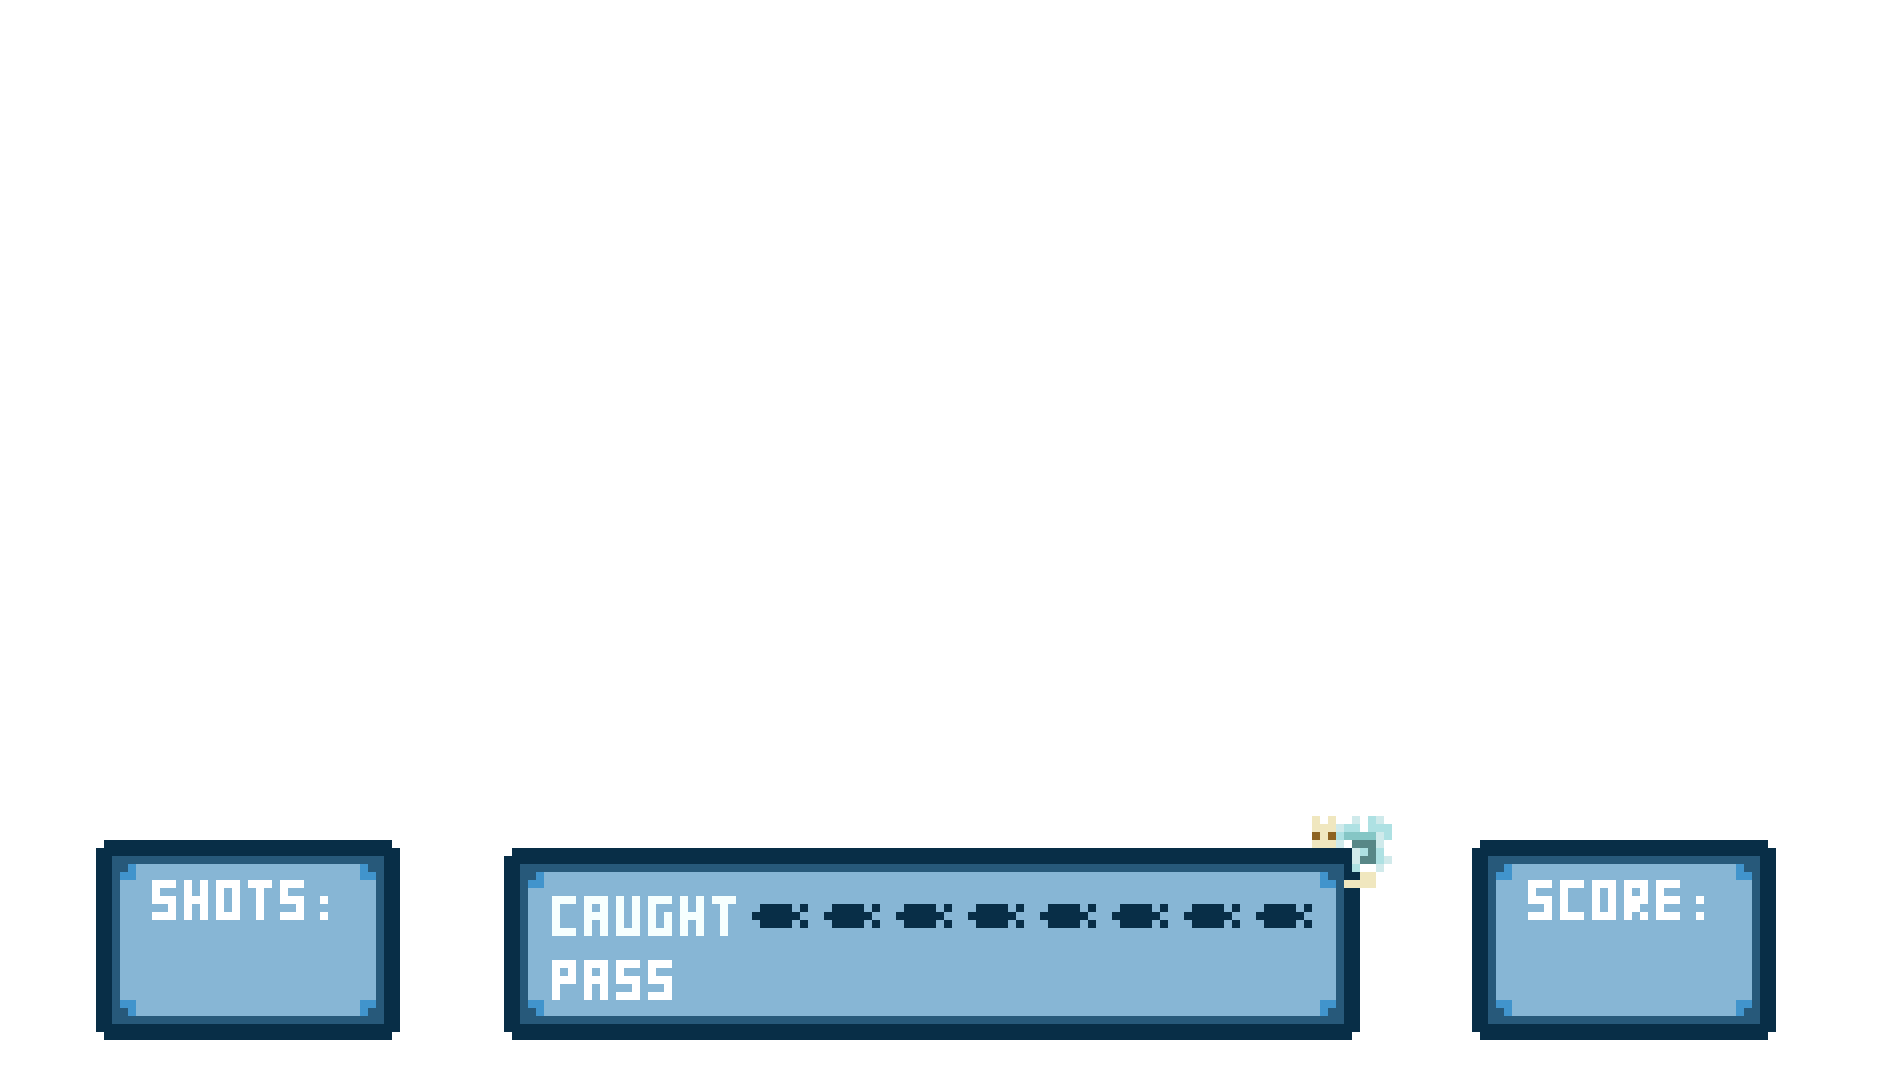
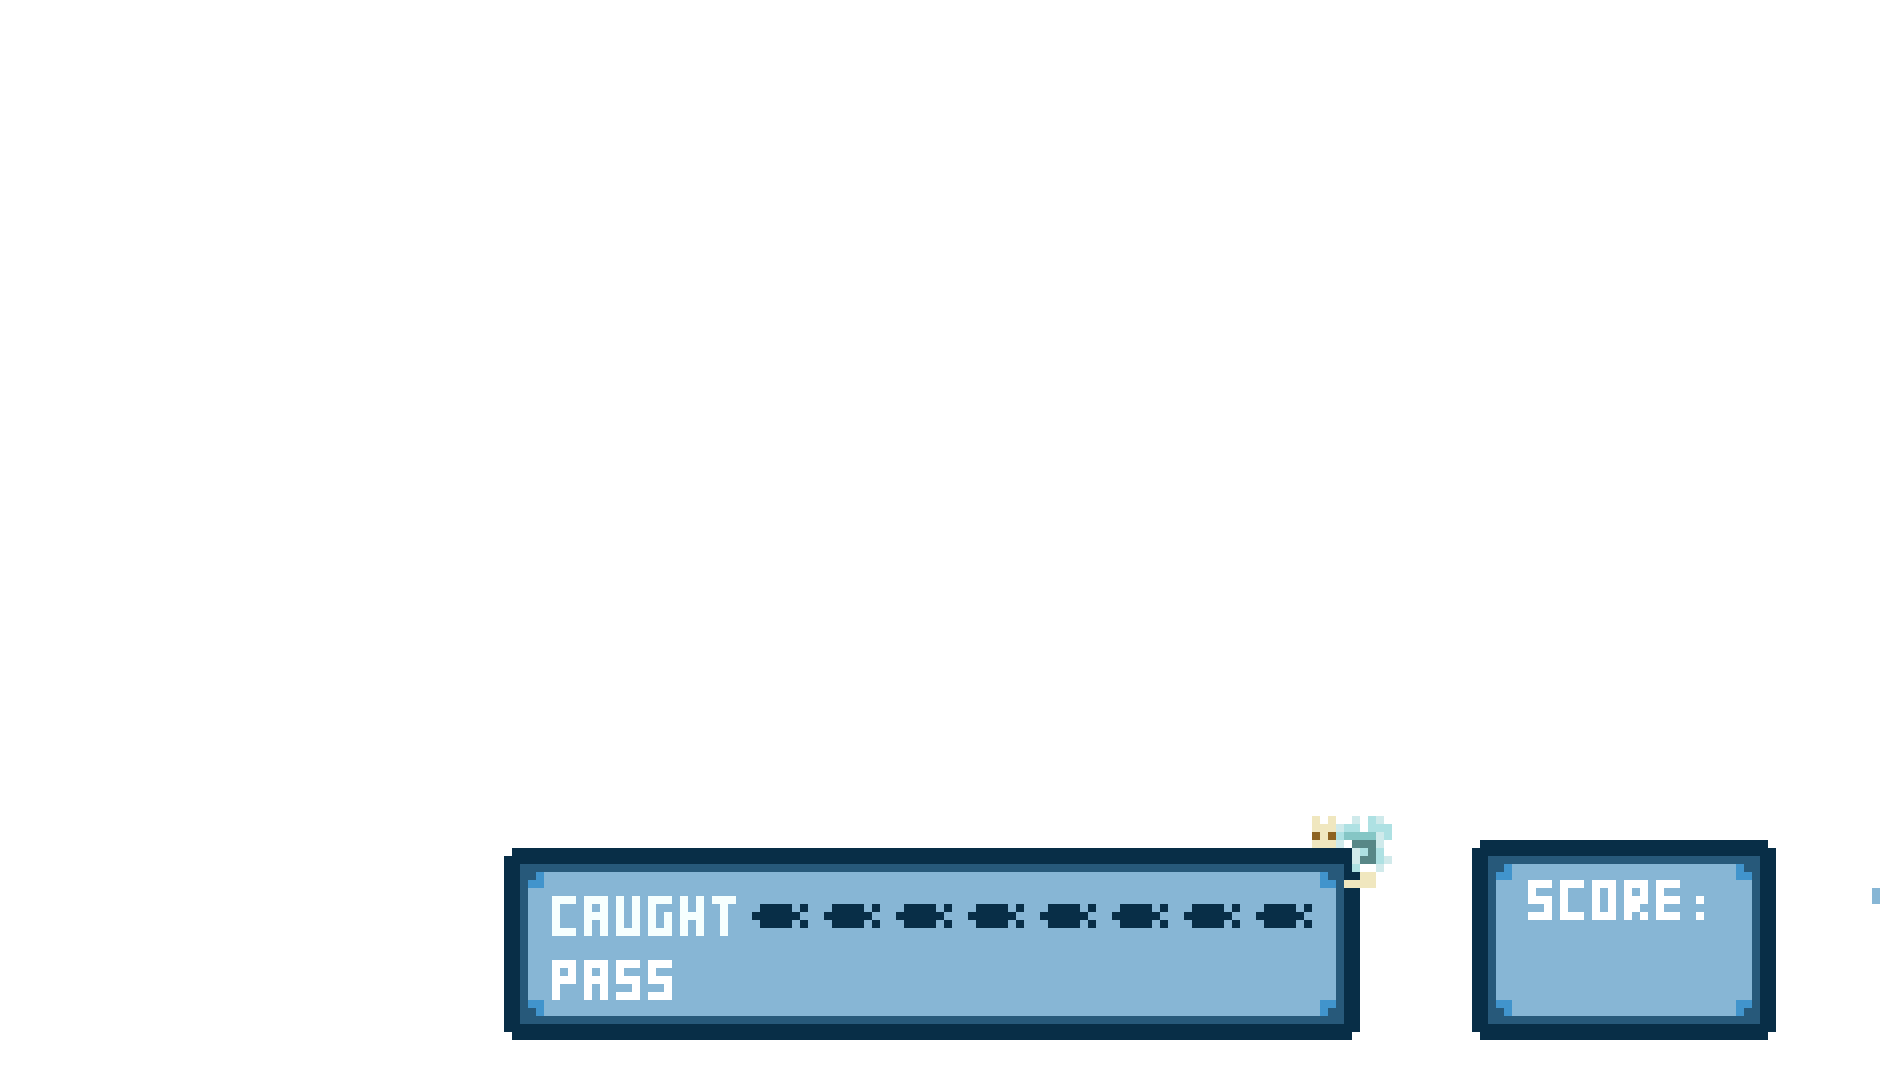
Added win screen thing and edited scoretables

Changed region(s): [[0.0309, 0.7639, 0.216, 0.9778], [0.9872, 0.825, 1.0, 0.8556]]

diff --git a/Duck Hunt Style Game 2025/src/Duck.java b/Duck Hunt Style Game 2025/src/Duck.java
@@ -19,6 +19,7 @@ public class Duck {
 	int score = 0; 
 	int pass = (int)((Math.random()*8)+1);
 	private Background Scoretables = new Background("Scoretables.PNG",0.5,0.5,950,-400);
+	private Background Winscreen = new Background("Win.GIF",2.5,2.5,1265,150);
     // Variables to control the size (scale) of the duck image
     private double scaleX;           
     private double scaleY;           
@@ -139,7 +140,7 @@ public class Duck {
 		Scoretables.paint(g);
 
 		tokage.paint(g);
-        
+		
 		
 		g.setColor(Color.WHITE);
 		g.setFont(new Font("Courier",Font.BOLD,45));
@@ -150,6 +151,9 @@ public class Duck {
 			g.drawString("0"+pass, 1300, 101);
 		} else {
 			g.drawString("Complete!", 1300, 101);
+			g.setFont(new Font("Courier",Font.BOLD,13));
+			g.drawString("Continue if you want!", 1460, 100);
+			Winscreen.paint(g);
 		}
         //create a green hitbox
        // g.setColor(Color.GREEN);

diff --git a/Duck Hunt Style Game 2025/src/Frame.java b/Duck Hunt Style Game 2025/src/Frame.java
@@ -3,6 +3,7 @@ import java.awt.Cursor;
 import java.awt.Dimension;
 import java.awt.Font;
 import java.awt.Graphics;
+import java.awt.GraphicsEnvironment;
 import java.awt.GridLayout;
 import java.awt.Image;
 import java.awt.Point;
@@ -78,7 +79,11 @@ public class Frame extends JPanel implements ActionListener, MouseListener, KeyL
 		System.out.println(mouse.getX()+":"+mouse.getY());	
 		duckObject.checkCollision(mouse.getX()-50, mouse.getY()-50);
 		}
-
+	
+	//GraphicsEnvironment ge = GraphicsEnvironment.getLocalGraphicsEnvironment();
+	//String[] fonts = ge.getAvailableFontFamilyNames();
+	
+	//for(String font)
 	@Override
 	public void mouseReleased(MouseEvent mouse) {
 	    // Runs when a mouse button is released.
